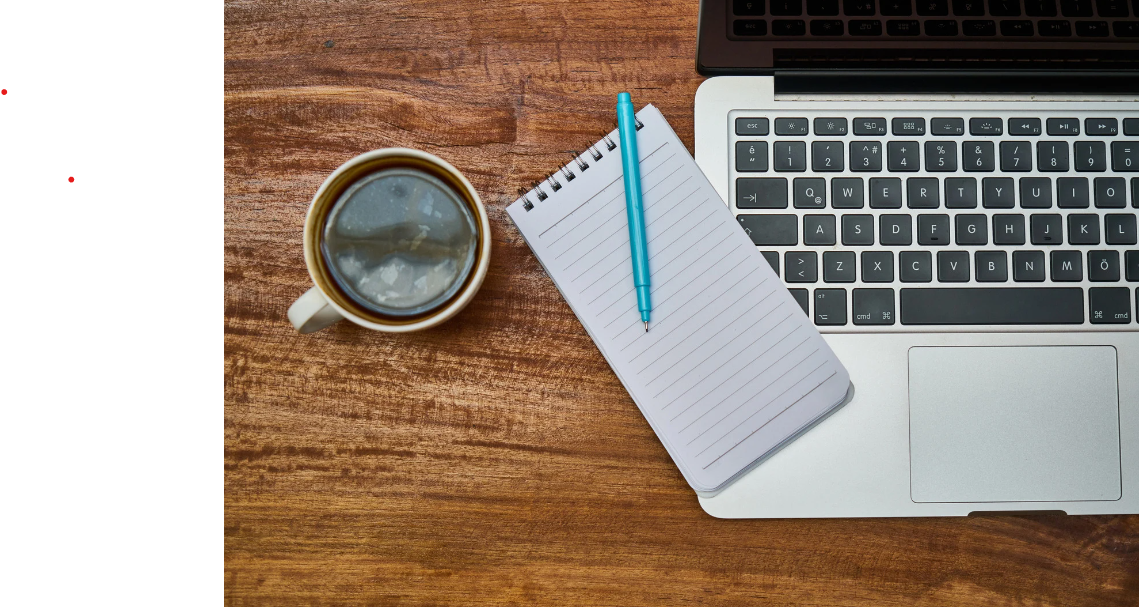
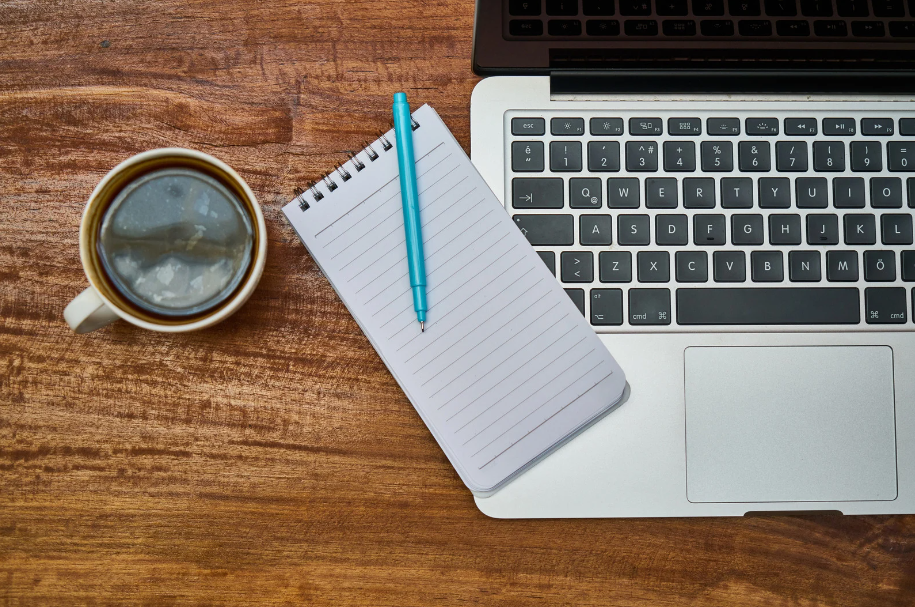
student home done

diff --git a/student/index.css b/student/index.css
@@ -35,10 +35,11 @@ body {
   }
   
   li a:hover:not(.active) {
-    background-color: #2868c775;
-    transition: background-color 0.2s;
+    background-color: #4545459a;
+    transition: background-color 0.3s;
     color: #4FFFCA;
-    font-weight: bold;
+    border-radius: 6px;
+    /* font-weight: bold; */
   }
 
    /* li a.logout:hover{
@@ -66,10 +67,15 @@ body {
     width: auto;
   }
   
-  .image1 {
+  /* .image{
+    border-radius: 80%;
+  } */
+
+  .image-1 {
     height: auto;
     float: right;
     padding-left: 30px;
+    border-radius: 80%;
   }
   
   .course1 {
@@ -78,16 +84,64 @@ body {
   }
   
   .button {
-    width: 100%;
+    /* width: 100%;
     padding: 15px;
     margin-top: 20px;
     background-color: #383a39;
-   border: 0;
+    border: 0;
     cursor: pointer;
     font-weight: bold;
     color: #4FFFCA;
-    transition: background-color 0.2s;
+    transition: background-color 0.2s; */
+  align-items: center;
+  background-color: initial;
+  background-image: linear-gradient(#5d5858, #393838);
+  border-radius: 8px;
+  border-width: 0;
+  box-shadow: rgba(0, 0, 0, .1), rgba(0, 0, 0, .05);
+  box-sizing: border-box;
+  color: #4FFFCA;
+  cursor: pointer;
+  display: inline-block;
+  /* flex-direction: column; */
+  font-family: expo-brand-demi,system-ui,-apple-system,BlinkMacSystemFont,"Segoe UI",Roboto,"Helvetica Neue",Arial,"Noto Sans",sans-serif,"Apple Color Emoji","Segoe UI Emoji","Segoe UI Symbol","Noto Color Emoji";
+  font-size: 18px;
+  height: 52px;
+  justify-content: center;
+  line-height: 1;
+  margin: 0;
+  outline: none;
+  overflow: hidden;
+  padding: 0 25px;
+  text-align: center;
+  text-decoration: none;
+  transform: translate3d(0, 0, 0);
+  transition: all 150ms;
+  vertical-align: baseline;
+  white-space: nowrap;
+  user-select: none;
+  -webkit-user-select: none;
+  touch-action: manipulation;
+}
+
+.button:hover {
+  box-shadow: rgba(0, 1, 0, 0.304) ;
+  opacity: .85;
+}
+
+.button:active {
+  outline: 0;
+}
+
+.button:focus {
+  box-shadow: rgba(0, 0, 0, .5) 0 0 0 ;
+}
+
+@media (max-width: 420px) {
+  .button {
+    height: 48px;
   }
+}
   
   /* .button1 {
     background-color: white;
@@ -95,11 +149,14 @@ body {
     margin: 20px 2px;
     padding: 20px 20px;
   } */
-  
-  .button:hover {
+  .button-r{
+  margin: 20px 2px;
+  padding: 20px 20px;
+  }
+  /* .button:hover {
     background-color: #2868c7;
     transition: background-color 0.2s;
-  }
+  } */
   
   #class {
     background-color: #645F5F;
@@ -112,7 +169,7 @@ body {
     width: auto;
   }
   
-  .image2 {
+  .image-2 {
     height: auto;
   
     float: left;
@@ -149,7 +206,7 @@ body {
   
   .chat1 {
     float: left;
-    padding-right: 10px;
+    padding-right: 80px;
   }
   
   #quiz {

diff --git a/student/home.php b/student/home.php
@@ -56,13 +56,13 @@ if($value=="na"){
           <a href="courses.php"><button class="button">Register Course</button></a>
         </div>
       </div>
-      <div class="image1">
-        <img src="../images/course.jpg" width="700" height="400" />
+      <div class="image-1">
+        <img src="../images/class.jpg" width="700" height="400" />
       </div>
     </div>
     <div class="section" id="class">
-      <div class="image2">
-        <img src="../images/class.png" height="400" width="680" />
+      <div class="image-2">
+        <img src="../images/course.png" height="400" width="680" />
       </div>
       <div class="btclass">
         <div class="class1">
@@ -74,7 +74,7 @@ if($value=="na"){
             We're here to help you achieve your full potential and succeed in your academic pursuits. So, are you ready to take the first step on your learning journey? Let's get started!
           </p>
         </div>
-        <div class="button">
+        <div class="button-r">
           <a href="#"><button class="button">Take Class</button></a>
         </div>
       </div>
@@ -93,12 +93,12 @@ if($value=="na"){
           <a href="#"><button class="button">Chat</button></a>
         </div>
       </div>
-      <div class="image1">
-        <img src="../images/chat.png" width="700" height="400" />
+      <div class="image-1">
+        <img src="../images/chat.png" width="550" height="250" />
       </div>
     </div>
     <div class="section" id="quiz">
-      <div class="image2">
+      <div class="image-2">
         <img src="../images/quiz.jpg" height="400" width="680" />
       </div>
       <div class="btquiz">
@@ -113,7 +113,7 @@ if($value=="na"){
             And don't forget to have fun while testing your knowledge.
           </p>
         </div>
-        <div class="button">
+        <div class="button-r">
           <a href="#"><button class="button">Take Quiz</button></a>
         </div>
       </div>
@@ -132,7 +132,7 @@ if($value=="na"){
           <a href="materials.php"><button class="button">Download Materials</button></a>
         </div>
       </div>
-      <div class="image1">
+      <div class="image-1">
         <img src="../images/book.jpg" width="700" height="400" />
       </div>
     </div>
